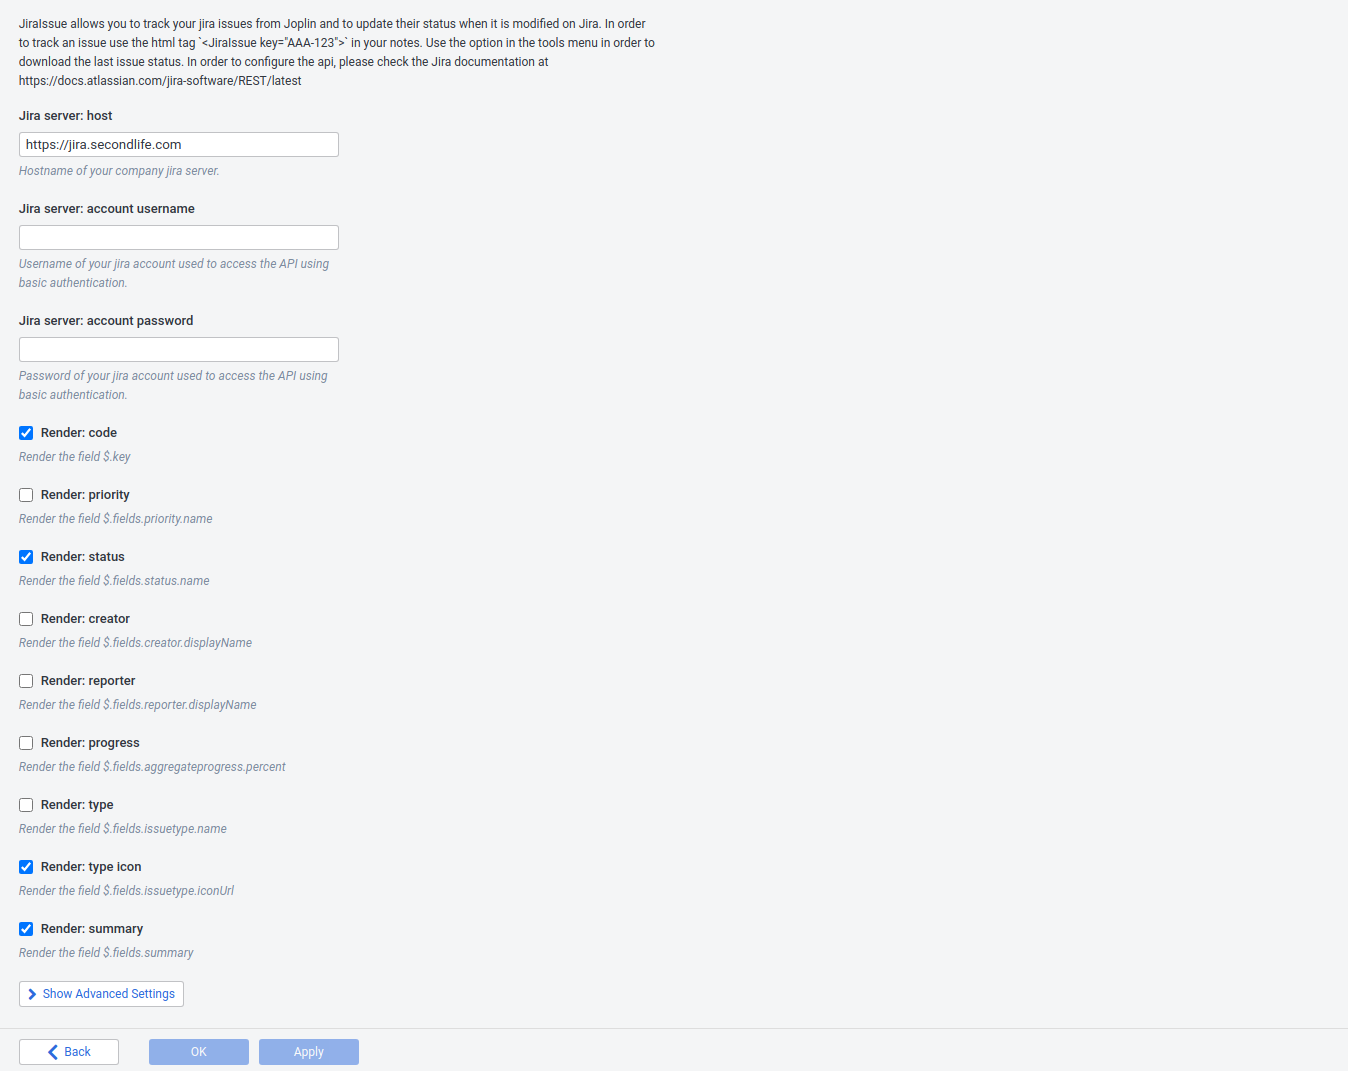
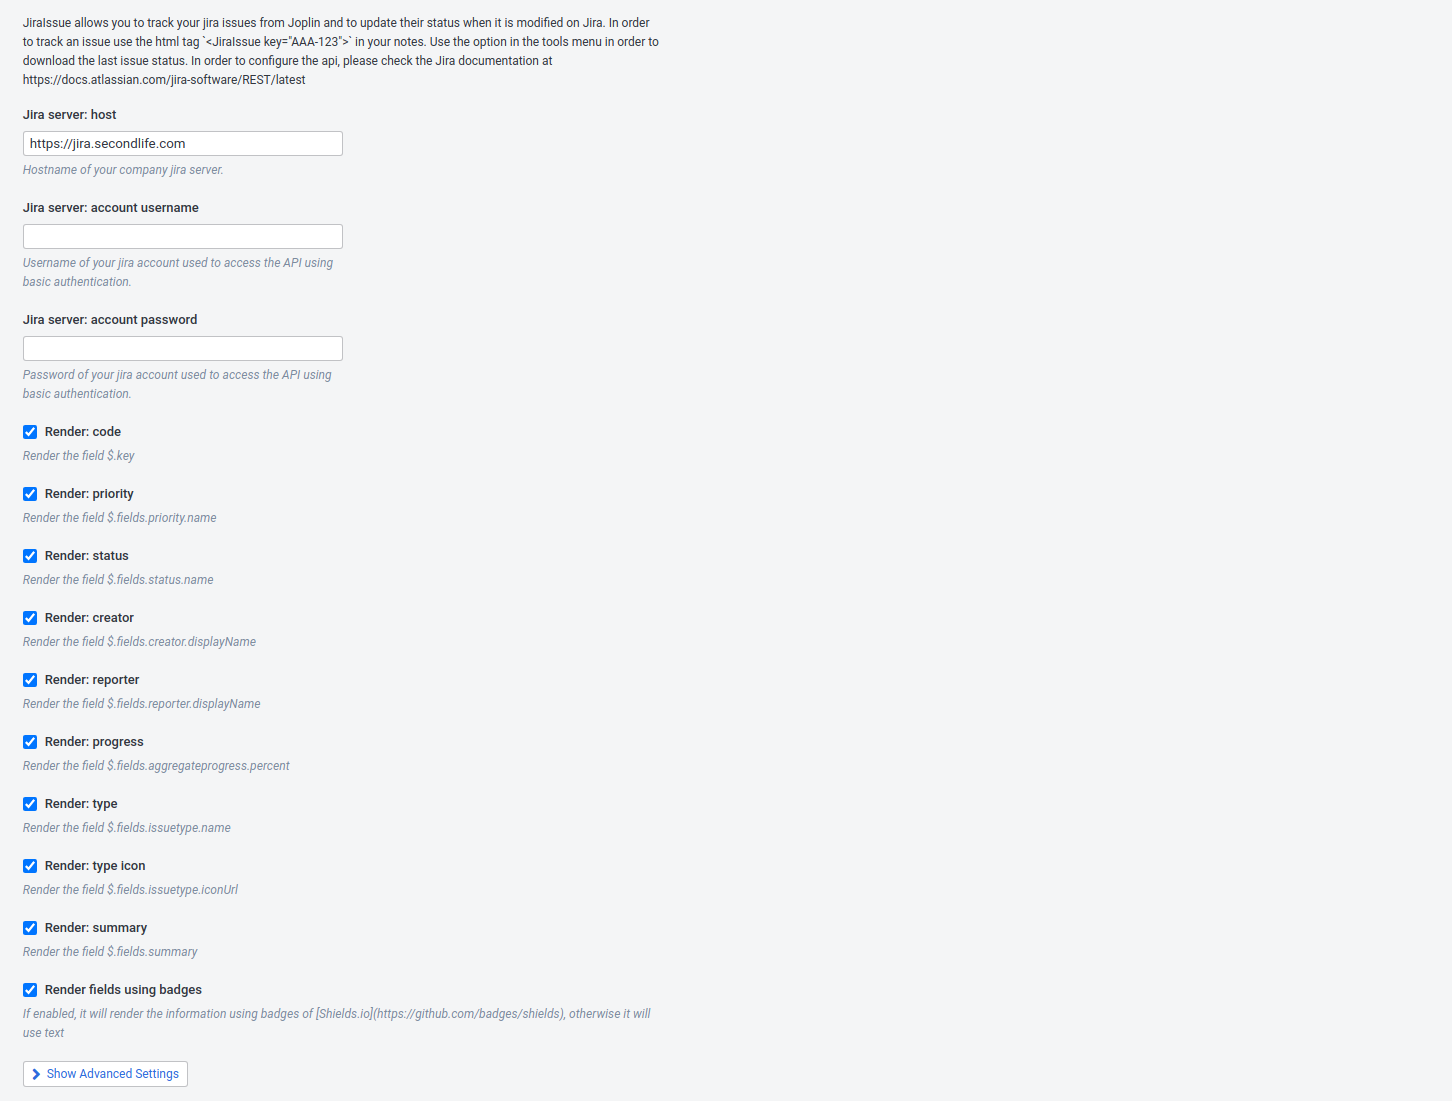
Complete badge support

Changed region(s): [[0.0, 0.0, 0.4674, 1.0], [0.2181, 0.1232, 0.2493, 0.1541]]

diff --git a/src/jiraClient.ts b/src/jiraClient.ts
@@ -2,25 +2,39 @@ import { Settings } from "./settings";
 
 export class JiraClient {
     private _settings: Settings;
+    private _colorsMap: Object = {
+        'default': 'lightgrey',
+        'blue-gray': 'blue',
+        'yellow': 'yellow',
+        'green': 'green',
+        'medium-gray': 'lightgrey',
+    };
 
     constructor(settings: Settings) {
         this._settings = settings;
+    }
+
+    getMappedColor(jiraColor: string = 'default'): string {
+        if (jiraColor in this._colorsMap) {
+            return this._colorsMap[jiraColor];
+        }
+        return this._colorsMap['default']
     }
 
     renderAsText(apiResponse: any): string {
         // Properties
         let props = [];
         if (this._settings.renderPriority) {
-            props.push(`Priority: ${apiResponse.fields.priority.name}`);
+            props.push(`P: ${apiResponse.fields.priority.name}`);
         }
         if (this._settings.renderCreator) {
-            props.push(`Creator: ${apiResponse.fields.creator.displayName}`);
+            props.push(`C: ${apiResponse.fields.creator.displayName}`);
         }
         if (this._settings.renderReporter) {
-            props.push(`Reporter: ${apiResponse.fields.reporter.displayName}`);
+            props.push(`R: ${apiResponse.fields.reporter.displayName}`);
         }
         if (this._settings.renderType) {
-            props.push(`Type: ${apiResponse.fields.issuetype.name}`);
+            props.push(`T: ${apiResponse.fields.issuetype.name}`);
         }
 
         // Output string
@@ -29,18 +43,7 @@ export class JiraClient {
             out += `![${apiResponse.fields.issuetype.name}](${apiResponse.fields.issuetype.iconUrl})`;
         }
         if (this._settings.renderKey) {
-            out += ` [[${apiResponse.key}](${this._settings.jiraHost}/browse/${apiResponse.key})]`;
-        }
-        if (props.length > 0) {
-            out += '[' + props.join('; ') + ']';
-        }
-
-        if (this._settings.renderProgress) {
-            if (apiResponse.fields.aggregateprogress.percent) {
-                out += `[${apiResponse.fields.aggregateprogress.percent}%]`;
-            } else {
-                out += `[${apiResponse.fields.aggregateprogress.progress}/${apiResponse.fields.aggregateprogress.total}]`;
-            }
+            out += ` [${apiResponse.key}](${this._settings.jiraHost}/browse/${apiResponse.key})`;
         }
         if (this._settings.renderStatus) {
             out += ` \`${apiResponse.fields.status.name}\``;
@@ -48,27 +51,33 @@ export class JiraClient {
         if (this._settings.renderSummary) {
             out += ` _${apiResponse.fields.summary}_`;
         }
+        if (this._settings.renderProgress) {
+            if (apiResponse.fields.aggregateprogress.percent) {
+                out += `[${apiResponse.fields.aggregateprogress.percent}%]`;
+            } else if (apiResponse.fields.aggregateprogress.total > 0) {
+                out += `[${apiResponse.fields.aggregateprogress.progress / apiResponse.fields.aggregateprogress.total * 100}]`;
+            }
+        }
+        if (props.length > 0) {
+            out += '<br/>[' + props.join('; ') + ']';
+        }
         return out.trim();
     }
 
-    urlEncode(x: string): string {
-        return x;
-    }
-
-    renderWithBadges(apiResponse: any): string {
+    async renderWithBadges(apiResponse: any): Promise<string> {
         // Properties
         let props = [];
         if (this._settings.renderPriority) {
-            props.push(`![](https://img.shields.io/badge/Priority-${this.urlEncode(apiResponse.fields.priority.name)}-lightgray)`);
+            props.push(`![P: ${apiResponse.fields.priority.name}](https://img.shields.io/badge/P-${encodeURI(apiResponse.fields.priority.name)}-lightgray)`);
         }
         if (this._settings.renderCreator) {
-            props.push(`Creator: ${apiResponse.fields.creator.displayName}`);
+            props.push(`![C: ${apiResponse.fields.creator.displayName}](https://img.shields.io/badge/C-${encodeURI(apiResponse.fields.creator.displayName)}-lightgray)`);
         }
         if (this._settings.renderReporter) {
-            props.push(`Reporter: ${apiResponse.fields.reporter.displayName}`);
+            props.push(`![R: ${apiResponse.fields.reporter.displayName}](https://img.shields.io/badge/R-${encodeURI(apiResponse.fields.reporter.displayName)}-lightgray)`);
         }
         if (this._settings.renderType) {
-            props.push(`Type: ${apiResponse.fields.issuetype.name}`);
+            props.push(`![T: ${apiResponse.fields.issuetype.name}](https://img.shields.io/badge/T-${encodeURI(apiResponse.fields.issuetype.name)}-lightgray)`);
         }
 
         // Output string
@@ -77,31 +86,32 @@ export class JiraClient {
             out += `![${apiResponse.fields.issuetype.name}](${apiResponse.fields.issuetype.iconUrl})`;
         }
         if (this._settings.renderKey) {
-            out += ` [[${apiResponse.key}](${this._settings.jiraHost}/browse/${apiResponse.key})]`;
-        }
-        if (props.length > 0) {
-            out += '[' + props.join('; ') + ']';
-        }
-
-        if (this._settings.renderProgress) {
-            if (apiResponse.fields.aggregateprogress.percent) {
-                out += `[${apiResponse.fields.aggregateprogress.percent}%]`;
-            } else {
-                out += `[${apiResponse.fields.aggregateprogress.progress}/${apiResponse.fields.aggregateprogress.total}]`;
-            }
+            out += ` [${apiResponse.key}](${this._settings.jiraHost}/browse/${apiResponse.key})`;
         }
         if (this._settings.renderStatus) {
-            out += ` \`${apiResponse.fields.status.name}\``;
+            const statusColor = await this.getStatusColor(apiResponse.fields.status.name);
+            out += ` ![${apiResponse.fields.status.name}](https://img.shields.io/badge/-${encodeURI(apiResponse.fields.status.name)}-${statusColor})`;
         }
         if (this._settings.renderSummary) {
             out += ` _${apiResponse.fields.summary}_`;
         }
+
+        if (this._settings.renderProgress) {
+            if (apiResponse.fields.aggregateprogress.percent) {
+                out += ` [${apiResponse.fields.aggregateprogress.percent}%]`;
+            } else if (apiResponse.fields.aggregateprogress.total > 0) {
+                out += ` [${apiResponse.fields.aggregateprogress.progress / apiResponse.fields.aggregateprogress.total * 100}]`;
+            }
+        }
+        if (props.length > 0) {
+            out += '<br/>' + props.join(' ');
+        }
         return out.trim();
     }
 
-    render(apiResponse: any): string {
+    async render(apiResponse: any): Promise<string> {
         if (this._settings.useBadges) {
-            return this.renderWithBadges(apiResponse);
+            return await this.renderWithBadges(apiResponse);
         } else {
             return this.renderAsText(apiResponse);
         }
@@ -111,7 +121,7 @@ export class JiraClient {
         return new Promise<string>((resolve) => {
             // console.info("JiraIssue: query ", this._settings.jiraHost, this._settings.apiBasePath, issue)
             let xhr = new XMLHttpRequest();
-            xhr.open("GET", this._settings.jiraHost + this._settings.apiBasePath + issue, true);
+            xhr.open("GET", this._settings.jiraHost + this._settings.apiBasePath + '/issue/' + issue, true);
             if (this._settings.username) {
                 xhr.setRequestHeader('Authorization', 'Basic ' + btoa(this._settings.username + ':' + this._settings.password));
             }
@@ -130,6 +140,33 @@ export class JiraClient {
             xhr.onerror = (e) => {
                 console.log("onerror", e)
                 resolve('Request error');
+            }
+            xhr.send(null);
+        })
+    }
+
+    async getStatusColor(status: string): Promise<string> {
+        return new Promise<string>((resolve) => {
+            let xhr = new XMLHttpRequest();
+            xhr.open("GET", this._settings.jiraHost + this._settings.apiBasePath + '/status/' + status, true);
+            if (this._settings.username) {
+                xhr.setRequestHeader('Authorization', 'Basic ' + btoa(this._settings.username + ':' + this._settings.password));
+            }
+            xhr.onload = (e) => {
+                if (xhr.readyState === 4) {
+                    if (xhr.status === 200) {
+                        console.log(xhr.responseText);
+                        const responseJson = JSON.parse(xhr.responseText);
+                        resolve(this.getMappedColor(responseJson.statusCategory.colorName));
+                    } else {
+                        console.error(xhr.statusText);
+                        resolve(this.getMappedColor());
+                    }
+                }
+            };
+            xhr.onerror = (e) => {
+                console.log("onerror", e)
+                resolve(this.getMappedColor());
             }
             xhr.send(null);
         })

diff --git a/src/index.ts b/src/index.ts
@@ -7,25 +7,24 @@ import { Settings } from "./settings";
 
 joplin.plugins.register({
     onStart: async function () {
-        const jiraIssueTagOpenPattern = new RegExp('<JiraIssue +key=\"[A-Z0-9\-]+\" *\/?>');
-        const jiraIssueTagOpenClosePattern = new RegExp('<JiraIssue +key=\"[A-Z0-9\-]+\" *\/?>[^<]*<\/JiraIssue>');
-        const jiraIssueRowPattern = new RegExp('^.*<JiraIssue +key=\"([A-Z0-9\-]+)\" *\/?>[^<]*(<\/JiraIssue>)?.*$');
+        const jiraIssueTagOpenPattern = new RegExp('<JiraIssue +key=\"([A-Z0-9\-]+)\" *\/?>');
+        const jiraIssueTagClosePattern = new RegExp('<\/JiraIssue>');
+        const jiraIssueTagOpenClosePattern = new RegExp('<JiraIssue +key=\"[A-Z0-9\-]+\" *\/?>.*<\/JiraIssue>');
         const settings = new Settings();
         const jiraClient = new JiraClient(settings);
 
 
         function containsJiraIssueHtmlBlock(row: string): boolean {
-            // console.log("containsJiraIssueHtmlBlock", row, jiraIssueRowPattern.test(row));
-            return jiraIssueRowPattern.test(row);
+            return jiraIssueTagOpenPattern.test(row);
         }
 
         async function processJiraIssue(rows: string[], index: number) {
             console.log("processJiraIssue", rows[index]);
-            const matches = rows[index].match(jiraIssueRowPattern);
+            const matches = rows[index].match(jiraIssueTagOpenPattern);
             if (matches) {
                 const issueStatus = await jiraClient.query(matches[1]);
-                var replacePattern;
-                if (matches[2]) {
+                let replacePattern;
+                if (jiraIssueTagClosePattern.test(rows[index])) {
                     replacePattern = jiraIssueTagOpenClosePattern;
                 } else {
                     replacePattern = jiraIssueTagOpenPattern;

diff --git a/src/settings.ts b/src/settings.ts
@@ -5,7 +5,7 @@ import { SettingItemType } from 'api/types';
 enum SettingDefaults {
     Default = 'default',
     JiraHost = 'https://jira.secondlife.com',
-    ApiBasePath = '/rest/api/latest/issue/',
+    ApiBasePath = '/rest/api/latest',
 }
 
 export class Settings {
@@ -177,7 +177,7 @@ export class Settings {
             public: true,
             advanced: true,
             label: 'Jira server: api service base path',
-            description: 'Base path of api service. Change this path if you want to select a specific api version.'
+            description: 'Base path of api service. Change this path if you want to select a specific api version. (default: "/rest/api/latest")'
         });
 
         // initially read settings

diff --git a/README.md b/README.md
@@ -18,6 +18,6 @@ In the settings is it possible to define how to connect to the Jira server and w
 
 ## TODO
 - [ ] Detect multiple tags on the same line
-- [ ] Handle multi language
+- [ ] Handle multi language settings
 - [ ] Allow custom properties
 - [ ] Allow custom output format
